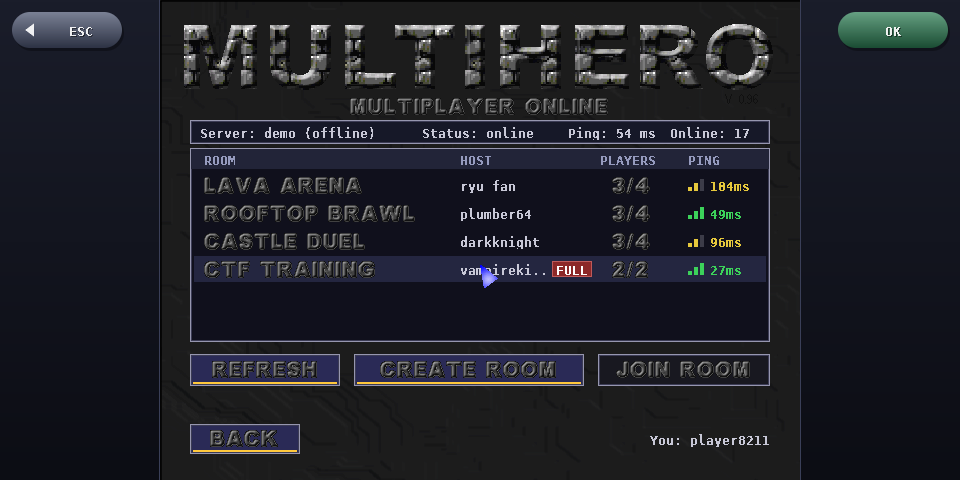
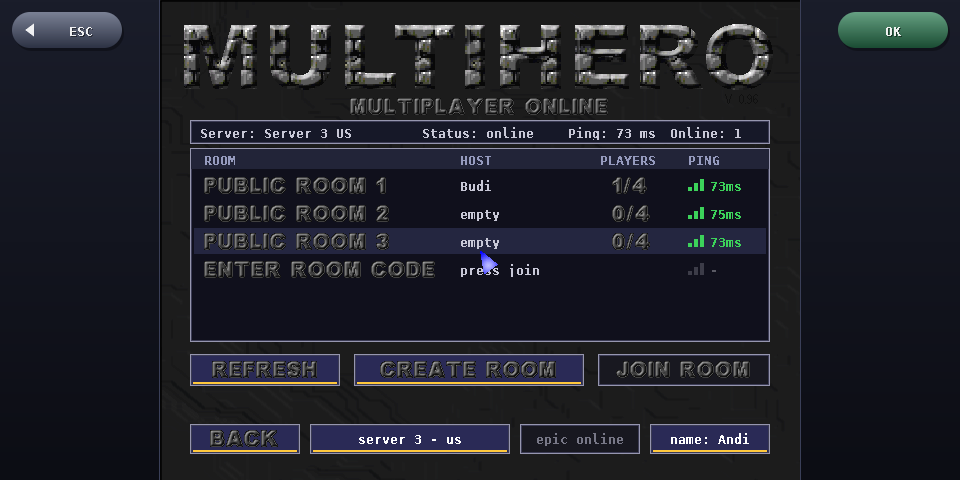
New screenshots (menu, adventure, select, VS, controls, cheats, unlock, online lobby/room/match); server picker keeps the chosen server
Screenshots rendered by the port's own runtime (headless Linux backend, 960x480 phone layout); the online ones
from a real match on Server 3 against a web player.

setServer(): choosing the server that is already shown is a choice too, so the lobby no longer switches to the
lowest-ping server afterwards.

diff --git a/runtime/net/net_worker.cpp b/runtime/net/net_worker.cpp
@@ -622,10 +622,14 @@ class NetWorker : public NetBackend {
     return publicCode(s2, o % PUB_N);
   }
   void setServer(int s) {
-    if (regions_ != 1 || s < 0 || s >= SERVER_N || s == cur_) return;
+    if (regions_ != 1 || s < 0 || s >= SERVER_N) return;
+    // picking the server that is already shown is a choice too: keep it (no automatic switch
+    // to the lowest ping later)
+    bool same = s == cur_;
     cur_ = s;
     chosen_ = true;
     saveServerChoice();
+    if (same) return;
     if (srvPing_[cur_] >= 0) ping = srvPing_[cur_];
     startSweep(false);
     buildRooms();

diff --git a/CHANGELOG.md b/CHANGELOG.md
@@ -1,5 +1,11 @@
 # Changelog
 
+## Unreleased
+- Server picker: choosing the server that is already shown now keeps it (it no longer switches to the
+  lowest ping by itself afterwards).
+- New screenshots: menu, Adventure, character select, VS, controls, cheats page, unlock, online lobby, room and an
+  online match (Android vs a web player on Server 3).
+
 ## 1.8.0 – 2026-11-04
 - **MULTIPLAYER ONLINE now opens the online servers** (Cloudflare Worker, the same rooms as the web version): 4 servers
   (Asia Tenggara, Asia Timur, US, Eropa) with ping and players online, 3 public rooms per server, private rooms with a

diff --git a/README.md b/README.md
@@ -21,6 +21,8 @@
   <img src="docs/screenshots/menu.png" width="49%" alt="Main menu">
   <img src="docs/screenshots/lobby.png" width="49%" alt="Multiplayer online lobby">
   <img src="docs/screenshots/room.png" width="49%" alt="Online room with ready status">
+  <img src="docs/screenshots/online_match.png" width="49%" alt="Online match (Android vs web player)">
+  <img src="docs/screenshots/cheats.png" width="49%" alt="Cheats page">
 </p>
 
 ## Features
